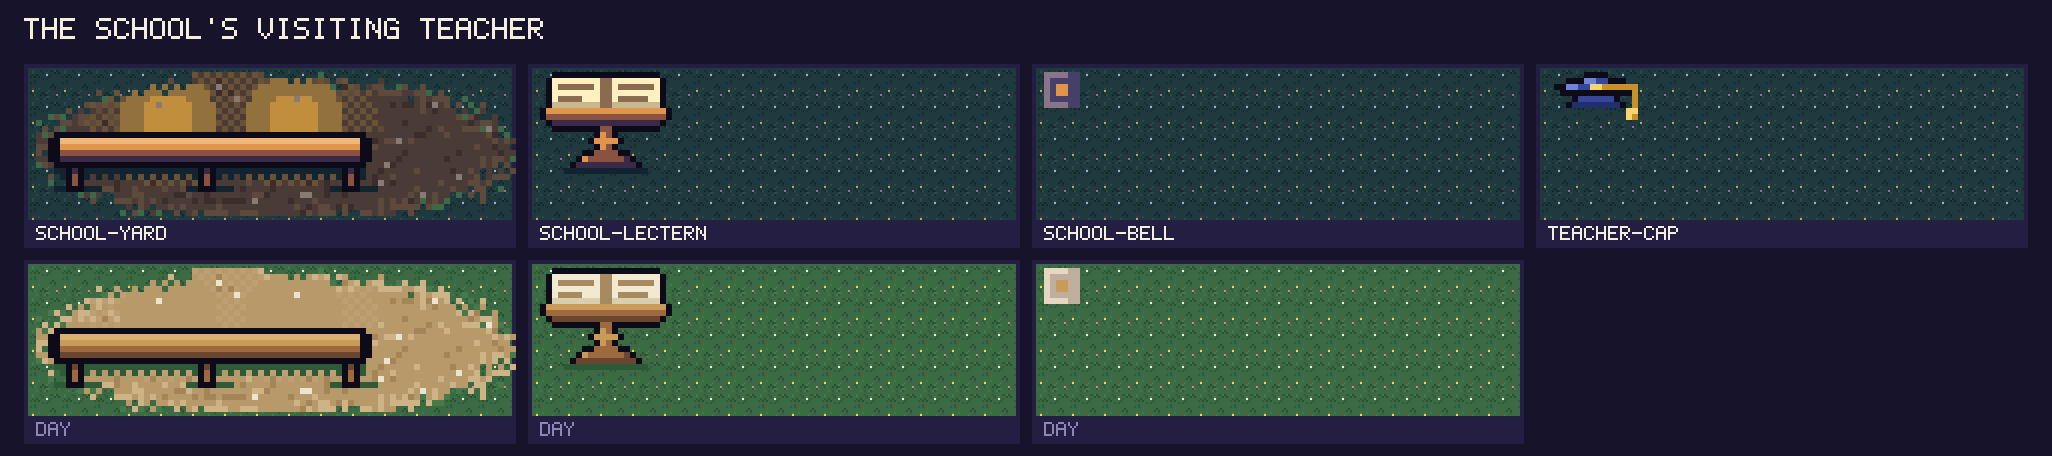
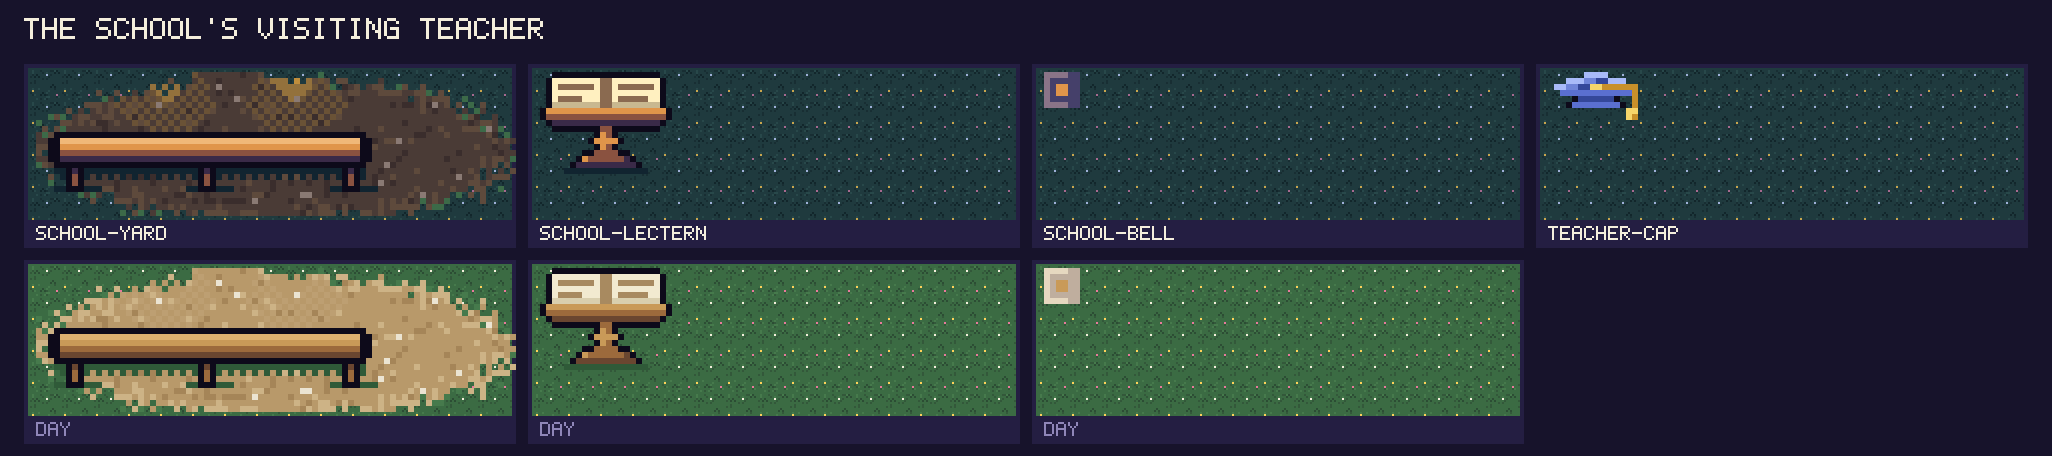
Valley school: flat window spill on the yard, lighter rim on the teacher cap
Claude-Session: https://claude.ai/code/session_01TqJ8tUAM4Muj4eb7wE4uc8

diff --git a/apps/activity/src/sprites/concepts/valley-school.ts b/apps/activity/src/sprites/concepts/valley-school.ts
@@ -30,16 +30,16 @@ const SCHOOL_YARD: SpriteDef = {
     x: '#112430',
   },
   rows: [
-    '..........................1d1d1d1d1d1e.........f................................',
-    '......................e...d1d1D1d1d1d1e222.2.2e1e.e1.....d......................',
-    '...................2.2.2.2221dpd1d1d1222222222222f.D1e.dee..fe..e...............',
-    '..........e..1..2.222.22222221D1D1d122222222222222e1e1d1deeeeddeef.e............',
-    '...........f1.122223333332222d1d1p1d2222333p3322221d1d1ddddddd.dedeee..f........',
-    '........e1e1e1222233p333332222d1d1d22223333333322221d1d1dddDdDDdeDpde.e.f.e.....',
-    '.....e.d.ded1d22223333333322221d1d12222333333332222d1d1d1dddddddedDddd.d.fd.....',
-    '..fef.dee1d1e12222333333332222d1d1d22223333333322221d1d1ddddddddddddddefeD..d...',
-    'f...eede1e1D1e22223333333322221d1d12222333333332222d1d1d1ddddDddddddddddDdeed...',
-    '.e.efdddd1d1d12222333333332222d1d1d22223333333322221d1d1dedddddddDdedddeeefpdf..',
+    '..........................1dddddddDdde.........f................................',
+    '......................e...d1ddDdddddd1e222.3.2e1e.ee.....d......................',
+    '...................2.2.2.e1d1dpddddd1D1d2222221d1f.Dde.dee..fe..e...............',
+    '..........e..e..d.e12.22d1d1ddDdDdddd1d1d22221d1d1edeedddeeeeddeef.e............',
+    '...........fd.1d1d1e122d1d1d1ddddped1d1d1d2p1d1d1d1dDddddddddd.dedeee..f........',
+    '........eeede1d1e1d1p1e1d1d1d1dDddd1D1e1d1d1d1d1d1d1dddddddDdDDdeDpde.e.f.e.....',
+    '.....e.d.deded1e1d1d1d1d1D1d1edddded1d1e1d1d1d1d1d1dddddddddddddedDddd.d.fd.....',
+    '..fef.deeddeedd1D1d1d1d1d1d1dddddddde1d1D1D1d1D1d1edddddddddddddddddddefeD..d...',
+    'f...eededeDDdedd1e1d1d1d1e1dDddddddddd1d1d1d1d1D1ddddddddddddDddddddddddDdeed...',
+    '.e.efddddddDdddddDd1d1d1d1dDdddeddddded1d1d1d1dddddddDdddedddddddDdedddeeefpdf..',
     'dfekkkkkkkkkkkkkkkkkkkkkkkkkkkkkkkkkkkkkkkkkkkkkkkkkkkkddddddddDDdddeddddddeD.f.',
     'ddkkUUUUUUUUUUUUUUUUUUUUUUUUUUUUUUUUUUUUUUUUUUUUUUUUUUkkDdeepdedddddddddddddeded',
     'eekkuuuuuuuuuuuuuuuuuuuuuuuuuuuuuuuuuuuuuuuuuuuuuuuuuukkeddddddddddddddddeddDdd.',
@@ -47,8 +47,8 @@ const SCHOOL_YARD: SpriteDef = {
     'ddkkwwwwwwwwwwwwwwwwwwwwwwwwwwwwwwwwwwwwwwwwwwwwwwwwwwkkddddDdddddddDdddddedeedf',
     'fedkkkkkkkkkkkkkkkkkkkkkkkkkkkkkkkkkkkkkkkkkkkkkkkkkkkkdddpDddddddddddddddede.e.',
     '...xxkwkxxxxxxxxxxxxxxxxxxxkwkxxxxxxxxxxxxxxxxxxxxxkwkxddDdddddedddddDdded.d.d.e',
-    '..e.xkvkxdxdxdx1x1x1x1x1x1xkvkxdxdx1x1x1x1x1x1x1x1xkvkxdDddeddddddddddpdde.deee.',
-    '..f..kvkdddddDdddd1D1d1d1D1kvkdddddedd1D1d1d1D1dDddkvkddDpdDdddddddeddddeede....',
+    '..e.xkvkxdxdxdxDxDxDxdxdxdxkvkxdxdxdxdxdxexexdxdxdxkvkxdDddeddddddddddpdde.deee.',
+    '..f..kvkdddddDdddddDdddddDdkvkdddddedddDddDddDddDddkvkddDpdDdddddddeddddeede....',
     '...xxkkkxxxeeDddeddddeddexxkkkxxxdDddddDddddddddDxxkkkxxxddddddedddddedd.ee..f..',
     '.......fdfd..dddeedddddDDeddDdddddddeeDdddddppddDddDddddddddddedpdedd.f.e.e.....',
     '.........e...eeedededDddddDdDDdDDDDdpdddddDdddeddddddddddededeDdfdedf.....e.....',
@@ -150,22 +150,22 @@ const TEACHER_CAP: SpriteDef = {
     k: '#0d0a1a',
     N: '#34479a',
     M: '#6f84d8',
-    D: '#222f6e',
     T: '#f6d56a',
     Y: '#c8902a',
+    L: '#a8baf8',
+    B: '#5a6fd0',
   },
   rows: [
-    '......kkkk......',
-    '...kkkMMNNkkk...',
-    '.kkMMNNTTYYYYYY.',
-    '..kkkkkkkkkkkkY.',
+    '......LLLL......',
+    '...LLLMMNNLLL...',
+    '.LLMMNNTTYYYYYY.',
+    '..BBBBBBBBBBBBY.',
     '....kNNNNNNk..Y.',
-    '...kDDDDDDDDk.Y.',
+    '...kBBBBBBBBk.Y.',
     '.............TT.',
     '.............TY.',
   ],
 };
-/** Where the cap's last hat row (row 5) lands, relative to the head top. */
 const CAP_BAND_ROW = 5;
 
 /** The first row where x 5 to 10 are all filled (the head top), as `wearing()` finds it. */
@@ -181,10 +181,13 @@ function headTop(grid: readonly (readonly string[])[]): number {
  * row 0, never so low that its band passes row 7), so ears, antlers and the dome stay readable beside the
  * board, and the face (rows 8 to 10, x 3 to 12) is never painted. `flip` hangs the tassel on the left.
  */
-function withCap(creature: SpriteDef, flip = false): SpriteDef {
+function withCap(creature: SpriteDef, flip = false, low = false): SpriteDef {
   const grid = expandRows(creature).map((row) => [...row]);
-  const top = Math.max(0, Math.min(headTop(grid) - 2, 7 - CAP_BAND_ROW));
-  const cap = expandRows(TEACHER_CAP);
+  const top = Math.max(
+    0,
+    Math.min(headTop(grid) - (low ? 1 : 2), 7 - CAP_BAND_ROW + (low ? 1 : 0)),
+  );
+  const cap = expandRows(TEACHER_CAP).filter((_, dy) => !(low && dy === 4));
   for (const [dy, row] of cap.entries()) {
     const chars = flip ? [...row].reverse() : [...row];
     for (const [x, ch] of chars.entries()) {
@@ -262,12 +265,12 @@ export const VALLEY_SCHOOL_CONCEPTS: ConceptSet = {
     },
     'teacher-cap': {
       kind: 'free',
-      note: "The teacher's mortarboard with a gold tassel, 16x8, worn over the head top of a 16x16 creature (top row two rows above the head top). Variants: worn by Splashet, Sproutle and Zipmouse.",
+      note: "The teacher's mortarboard with a gold tassel, 16x8, worn over the head top of a 16x16 creature (top row two rows above the head top). Light blue rim on the board's top edge and a lighter underside line and band keep it readable on dark ground. Variants: worn by Splashet, Sproutle and Zipmouse (small head: the cap sits one row lower and drops the cap's first row so the ears show above the board).",
       sprite: TEACHER_CAP,
       variants: {
         'on-splashet': withCap(species('splashet')),
         'on-sproutle': withCap(species('sproutle')),
-        'on-zipmouse': withCap(species('zipmouse'), true),
+        'on-zipmouse': withCap(species('zipmouse'), true, true),
       },
     },
   },

diff --git a/docs/art/README.md b/docs/art/README.md
@@ -225,7 +225,7 @@ Status: **liked** means Misa approved the look; **draft** means he has not said 
 - **Status:** draft
 - **Requested:** 2026-11-03 (via the valley session, Misa's round 22 decision): show the visiting teacher with no banner: the bell swings, a lectern at the door, a bench of students, a teacher prop.
 - **Source:** `apps/activity/src/sprites/concepts/valley-school.ts` (draw it with `pnpm art valley-school`)
-- **Sheet of:** `d61922622e86`
+- **Sheet of:** `b8b6eb07a265`
 - Spec: valley/systems/school.md, "As decided (round 22)": no banner; the bell swings and a lectern appears at the door before the teacher comes, the teacher stands at the lectern Monday to Wednesday, students sit on a bench in front (empty seats show there is room to join), at dusk the windows light.
 - Lectern: the camp's `lectern` (48x50) is as big as the School itself, so beside a 16x16 teacher it is too big for the yard; `school-lectern` (22x17) is a small stand for the yard. Its foot is (10, 15) in its own pixels; the game puts that point at yard (73, 14). The teacher stands left of it, feet (62, 14): the sprite's top-left is (54, -1). Draw order: yard, lectern, teacher, then the students.
 - Yard: 80x24 (wider than the 64 asked: the bench takes the left 56 px and the right 24 px are the clear spot for the lectern and the teacher). Placed so the yard's x 31 and 32 are under the School door (yard top-left = School top-left + (-2, 38)), top row against the door steps; the two warm pools are under the School's two windows (yard x 21 and 42). Four seats on one long bench, 13 px apart. A creature is drawn with its sprite's bottom row (its feet, row 15 of 16) on the seat row, so its top-left is (seat x - 8, 12 - 15): seat feet points (9, 12), (22, 12), (35, 12), (48, 12) in yard pixels (plank top rows 11 and 12; the front face below is clear). Nothing is drawn above row 10 over the bench, so the seats are unobstructed; an empty seat is just bare plank. Day: bare dirt, pebbles and grass tufts at the edge, no light.
@@ -238,7 +238,7 @@ Status: **liked** means Misa approved the look; **draft** means he has not said 
 | `school-yard` | free |  | draft | The ground in front of the School door: a trodden dirt yard, 80x24, with one long bench of four seats, 13 px apart, facing the School. Seat feet points (9, 12), (22, 12), (35, 12), (48, 12); the clear spot for the lectern (foot (73, 14)) and the teacher (feet (62, 14)) is on the right. Night: warm stepped light from the two windows on the dirt. Day: bare dirt with pebbles and grass tufts at the edge. |
 | `school-lectern` | free |  | draft | A small lectern for the yard, 22x17: an open book on a slanted board, a short post and a flared foot; the teacher stands to its left. Foot point (10, 15). The camp lectern stays for places where a big desk fits. |
 | `school-bell` | free |  | draft | The School's bell at rest, 6x6 over the cupola opening at (27, 7) on the School sprite; `left` and `right` are the two swung frames. |
-| `teacher-cap` | free |  | draft | The teacher's mortarboard with a gold tassel, 16x8, worn over the head top of a 16x16 creature (top row two rows above the head top). Variants: worn by Splashet, Sproutle and Zipmouse. |
+| `teacher-cap` | free |  | draft | The teacher's mortarboard with a gold tassel, 16x8, worn over the head top of a 16x16 creature (top row two rows above the head top). Light blue rim on the board's top edge and a lighter underside line and band keep it readable on dark ground. Variants: worn by Splashet, Sproutle and Zipmouse (small head: the cap sits one row lower and drops the cap's first row so the ears show above the board). |
 
 <a id="valley-sky"></a>
 
